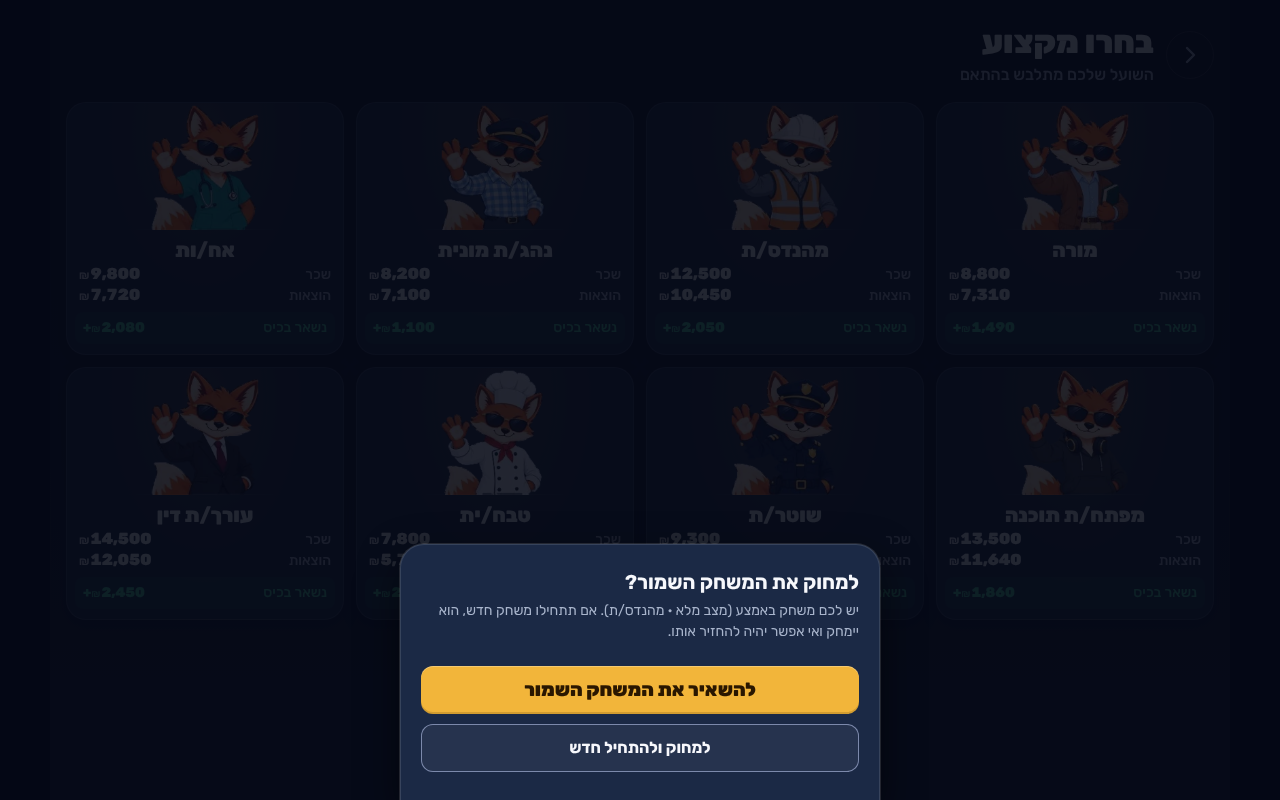
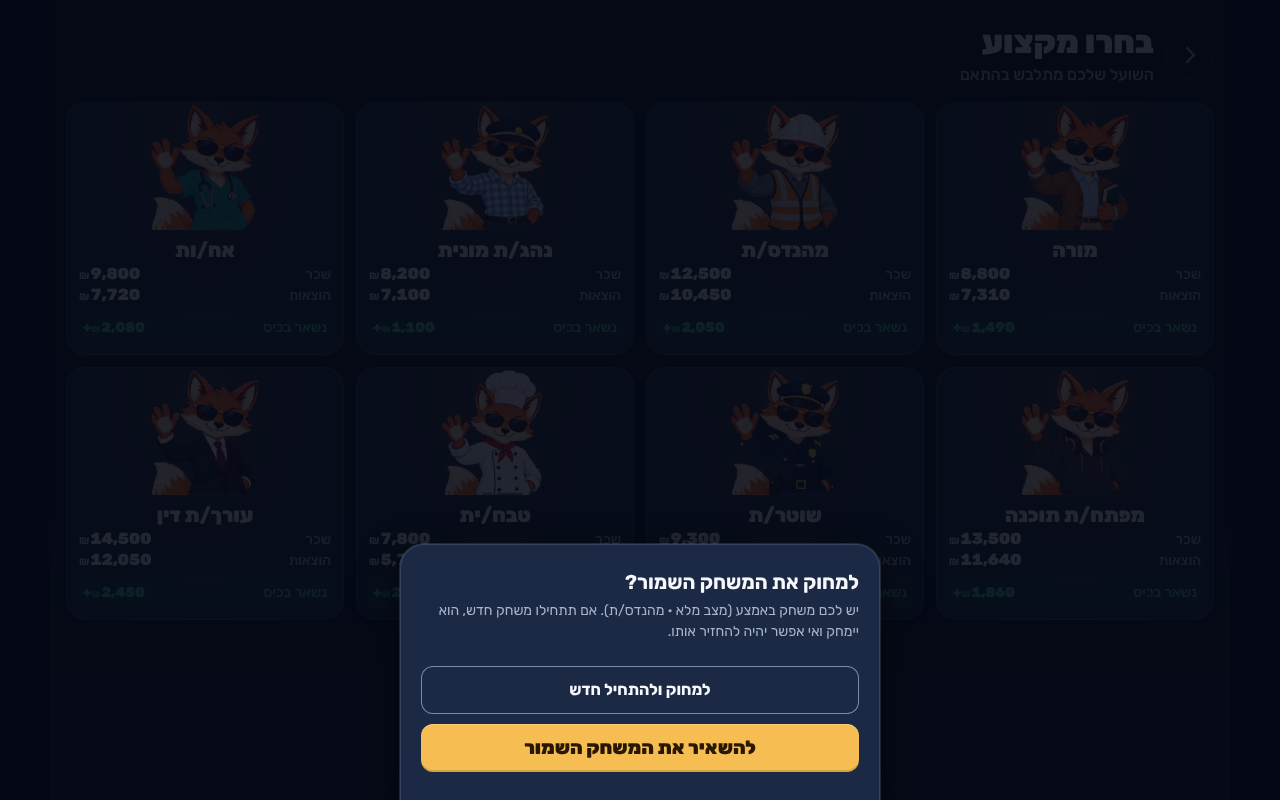
Overwrite dialog P1: buttons inert for 900 ms and the safe button at the old CTA spot (a stray second tap can never erase); Back = keep; newer-schema save asks; tests

Changed region(s): [[0.3125, 0.8125, 0.6875, 0.9688]]

diff --git a/src/ui/overwrite-sheet.js b/src/ui/overwrite-sheet.js
@@ -2,7 +2,8 @@
 // home confirm; the SAFE choice (keep the saved game) is the focused one. Resolves true = erase and start, false = keep.
 import { h } from './dom.js';
 import { t } from '../i18n/index.js';
-import { button } from './widgets.js';
+import { button, arm } from './widgets.js';
+import { holdBack } from './history.js';
 import { openLayer } from './modal.js';
 import { haptic } from './fx.js';
 
@@ -10,17 +11,29 @@ const RLI = '\u2067'; const PDI = '\u2069';
 /** The details are Hebrew text that contains a slash ("מהנדס/ת") and a dot separator: an RTL isolate keeps them in order inside the sentence. */
 const isolate = (x) => `${RLI}${x}${PDI}`;
 
+/** Taps are ignored this long after the sheet appears: a second tap aimed at the screen underneath (the profession's "go" button, 60-800 ms after the
+ *  first) lands on whatever the sliding sheet put at that spot. Both buttons are really `disabled` (no click event at all), not just styled. */
+export const OVERWRITE_ARM_MS = 900;
+
 export function overwriteSaveSheet({ details }) {
   let layer;
   let decided = false; // a double tap on a button must not act twice
+  const keepBtn = button(t('menu.overwriteKeep'), { variant: 'primary', size: 'lg', 'data-action': 'overwrite-keep', 'data-autofocus': '', onClick: () => { if (decided) return; decided = true; layer.close(false); } });
+  const confirmBtn = button(t('menu.overwriteConfirm'), { variant: 'secondary', 'data-action': 'overwrite-confirm', onClick: () => { if (decided) return; decided = true; haptic('tap'); layer.close(true); } });
   const content = h('div', { class: 'sheet home-sheet overwrite-sheet', 'data-dialog': 'overwrite-save' },
     h('div', { class: 'home-body' },
       h('h2', { class: 'dialog-title' }, t('menu.overwriteTitle')),
       h('p', { class: 'dialog-text' }, t('menu.overwriteText', { details: isolate(details) }))),
     h('div', { class: 'sheet-cta home-actions' },
-      // the SAFE choice is the primary (gold, focused) one; erasing is the quiet secondary button. The scrim / Escape / Back button = keep.
-      button(t('menu.overwriteKeep'), { variant: 'primary', size: 'lg', 'data-action': 'overwrite-keep', 'data-autofocus': '', onClick: () => { if (decided) return; decided = true; layer.close(false); } }),
-      button(t('menu.overwriteConfirm'), { variant: 'secondary', 'data-action': 'overwrite-confirm', onClick: () => { if (decided) return; decided = true; haptic('tap'); layer.close(true); } })));
+      // The destructive button sits ABOVE; the safe, primary, focused one is at the bottom, exactly where the profession sheet's "go" button was, so a stray
+      // second tap on that spot can only ever hit "keep".
+      confirmBtn, keepBtn));
   layer = openLayer(content, { kind: 'sheet', label: t('menu.overwriteTitle'), dismissable: true, cls: 'layer-home' });
+  const armer = arm([keepBtn, confirmBtn], OVERWRITE_ARM_MS, { focus: false });
+  keepBtn.focus?.({ preventScroll: true }); // focus the safe choice at once (a disabled button cannot hold it, so re-focus when armed)
+  armer.done.then((armed) => { if (armed) keepBtn.focus?.({ preventScroll: true }); });
+  // the system Back button closes the sheet as KEEP (scoped to this sheet: released when it is gone)
+  const release = holdBack('overwrite-save', () => { if (!decided) { decided = true; layer.close(false); } });
+  layer.closed.then(() => { armer.cancel(); release(); });
   return layer.closed.then((v) => v === true); // the scrim / Escape / Back button = keep
 }

diff --git a/tests/save-guard.test.js b/tests/save-guard.test.js
@@ -1,7 +1,7 @@
 import { describe, it, expect } from 'vitest';
 import { readFileSync } from 'node:fs';
 import { createEngine, newMatch, act } from '../src/engine/index.js';
-import { needsOverwriteConfirm } from '../src/services/save-guard.js';
+import { needsOverwriteConfirm, isUnreadableNewerSave } from '../src/services/save-guard.js';
 import { slotOf, SLOT_NORMAL, SLOT_DAILY, SLOT_CHALLENGE, SLOT_MISSION } from '../src/services/match-store.js';
 
 const read = (p) => JSON.parse(readFileSync(new URL(`../src/data/${p}`, import.meta.url), 'utf8'));
@@ -35,5 +35,14 @@ describe('why the end-screen "play again" path needs no warning', () => {
     const { rematch } = await import('../src/engine/index.js');
     expect(slotOf(rematch(engine, mk({ daily: { date: '2026-11-22' } }), 5))).toBe(SLOT_NORMAL);
     expect(needsOverwriteConfirm(rematch(engine, mk(), 5))).toBe(true); // a fresh rematch IS a game in progress: it must never replace another one silently
+  });
+});
+
+describe('isUnreadableNewerSave', () => {
+  it('only a recognisable save of a newer schema counts; garbage, {}, v1 shells and empty players stay silent', () => {
+    expect(isUnreadableNewerSave(JSON.stringify({ schemaVersion: 999, players: [{}] }))).toBe(true);
+    for (const bad of [null, '', '{not json', '{}', JSON.stringify({ schemaVersion: 1 }), JSON.stringify({ schemaVersion: 999, players: [] }), JSON.stringify({ schemaVersion: '999', players: [{}] }), '5']) {
+      expect(isUnreadableNewerSave(bad)).toBe(false);
+    }
   });
 });

diff --git a/src/services/save-guard.js b/src/services/save-guard.js
@@ -2,6 +2,19 @@
 // still being played. A finished (won / lost) save only resumes to its end screen, so replacing it loses no progress. The daily, friend-challenge and
 // mission slots are separate keys (match-store.js) and are never touched by a normal start, so they never ask.
 import { SLOT_NORMAL, slotOf } from './match-store.js';
+import { SCHEMA_VERSION } from '../engine/config.js';
 
 /** @param existing the match loaded from the normal slot (app.js loadSave()), or null */
 export const needsOverwriteConfirm = (existing) => !!existing && existing.status === 'playing' && slotOf(existing) === SLOT_NORMAL;
+
+/**
+ * A save written by a NEWER version of the app: this build cannot read it (deserialize returns null), so it is an UNKNOWN game in progress, and starting a
+ * new game would silently destroy it. Garbage, `{}`, an old v1 shell or a shape without a schemaVersion stay silent: they are not recognisably a game.
+ * @param raw the raw string of the normal slot
+ */
+export function isUnreadableNewerSave(raw) {
+  if (typeof raw !== 'string' || !raw) return false;
+  let s;
+  try { s = JSON.parse(raw); } catch { return false; }
+  return !!s && typeof s === 'object' && Number.isInteger(s.schemaVersion) && s.schemaVersion > SCHEMA_VERSION && Array.isArray(s.players) && s.players.length > 0;
+}

diff --git a/src/ui/app.js b/src/ui/app.js
@@ -14,7 +14,7 @@ import { loadData } from '../data/index.js';
 import { readRaw, writeRaw, remove } from '../services/storage.js';
 import { createMatchStore } from '../services/match-store.js';
 import { createStart, resumeInfo } from './screens/start.js';
-import { needsOverwriteConfirm } from '../services/save-guard.js';
+import { needsOverwriteConfirm, isUnreadableNewerSave } from '../services/save-guard.js';
 import { slotOf, SLOT_NORMAL } from '../services/match-store.js';
 import { overwriteSaveSheet } from './overwrite-sheet.js';
 import { createPick } from './screens/pick.js';
@@ -332,6 +332,8 @@ export function createApp(host) {
   /** True when it is fine to write a new normal game: no game in progress in the normal slot, or the player agreed to erase it. */
   async function confirmReplaceSave() {
     const existing = loadSave();
+    // a save from a NEWER app version cannot be read here, but it is still somebody's game: ask, with a generic line (garbage / v1 / {} stay silent)
+    if (!existing && isUnreadableNewerSave(readRaw('save'))) return overwriteSaveSheet({ details: t('menu.overwriteUnknown') });
     if (!needsOverwriteConfirm(existing)) return true;
     let details = '';
     try { // a malformed or old save must never break the dialog: every part is optional
